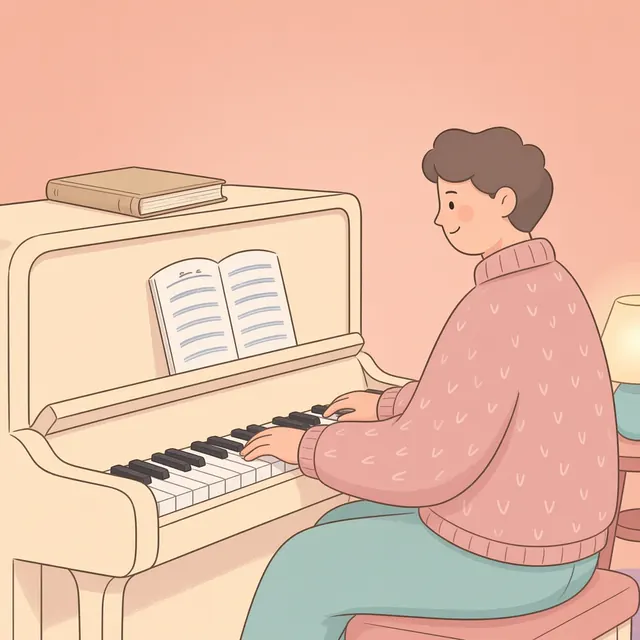
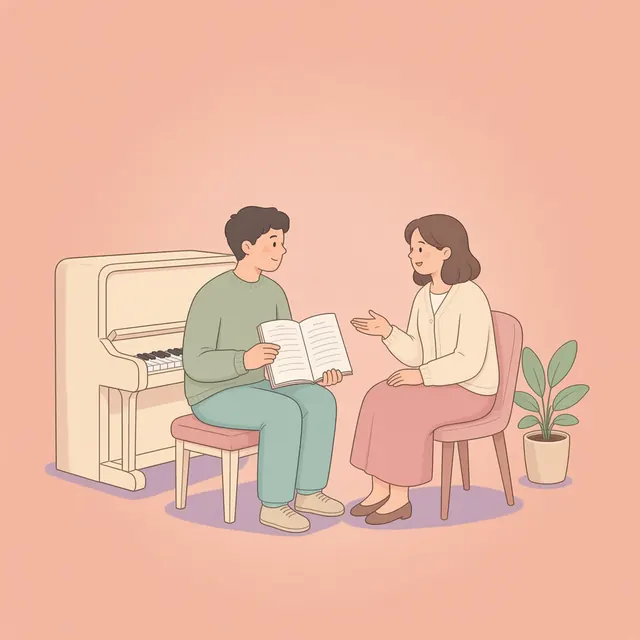
fix(blog): 更換重拾鋼琴文的第一張內文圖
改用確認的老師與成人一起看譜插畫，並重出 inline-1 的 avif 與 webp。封面和第二張內文圖不變。

diff --git a/blog/adult-return-to-piano.html b/blog/adult-return-to-piano.html
@@ -77,7 +77,7 @@ window.addEventListener('load',function(){
     <p>這些都可以作為討論起點的線索，不是報名前必須通過的測驗。</p>
     <p>還熟悉的部分繼續用，需要複習的地方再補上。不一定要整套教材從頭重彈，也不必為了證明自己以前學過，勉強挑戰目前還吃力的曲子。</p>
     <p>練一首簡單的曲子，也不是在否定以前的努力。它可以幫你重新熟悉琴鍵，慢慢找回雙手配合、把一段音樂彈順的感覺。</p>
-    <figure><picture><source type="image/avif" srcset="../assets/blog/adult-return-to-piano/inline-1-640.avif 640w, ../assets/blog/adult-return-to-piano/inline-1.avif 1024w" sizes="(max-width: 900px) 90vw, 820px"><source type="image/webp" srcset="../assets/blog/adult-return-to-piano/inline-1-640.webp 640w, ../assets/blog/adult-return-to-piano/inline-1.webp 1024w" sizes="(max-width: 900px) 90vw, 820px"><img src="../assets/blog/adult-return-to-piano/inline-1.jpg" alt="成人在直立鋼琴前雙手按鍵、譜架上攤著樂譜的插畫" width="1024" height="1024" loading="lazy" decoding="async"></picture><figcaption>不必先練回以前的程度，也能重新坐到琴前。</figcaption></figure>
+    <figure><picture><source type="image/avif" srcset="../assets/blog/adult-return-to-piano/inline-1-640.avif 640w, ../assets/blog/adult-return-to-piano/inline-1.avif 1024w" sizes="(max-width: 900px) 90vw, 820px"><source type="image/webp" srcset="../assets/blog/adult-return-to-piano/inline-1-640.webp 640w, ../assets/blog/adult-return-to-piano/inline-1.webp 1024w" sizes="(max-width: 900px) 90vw, 820px"><img src="../assets/blog/adult-return-to-piano/inline-1.jpg" alt="老師和成人坐在鋼琴旁一起看著攤開樂譜的插畫" width="1024" height="1024" loading="lazy" decoding="async"></picture><figcaption>不必先練回以前的程度，也能重新坐到琴前。</figcaption></figure>
     <h2>這一次，可以先說說你想彈什麼</h2>
     <p>小時候，你可能很少被問：「你想彈哪一首？」</p>
     <p>長大後重新學琴，這個答案可以變得重要。</p>
